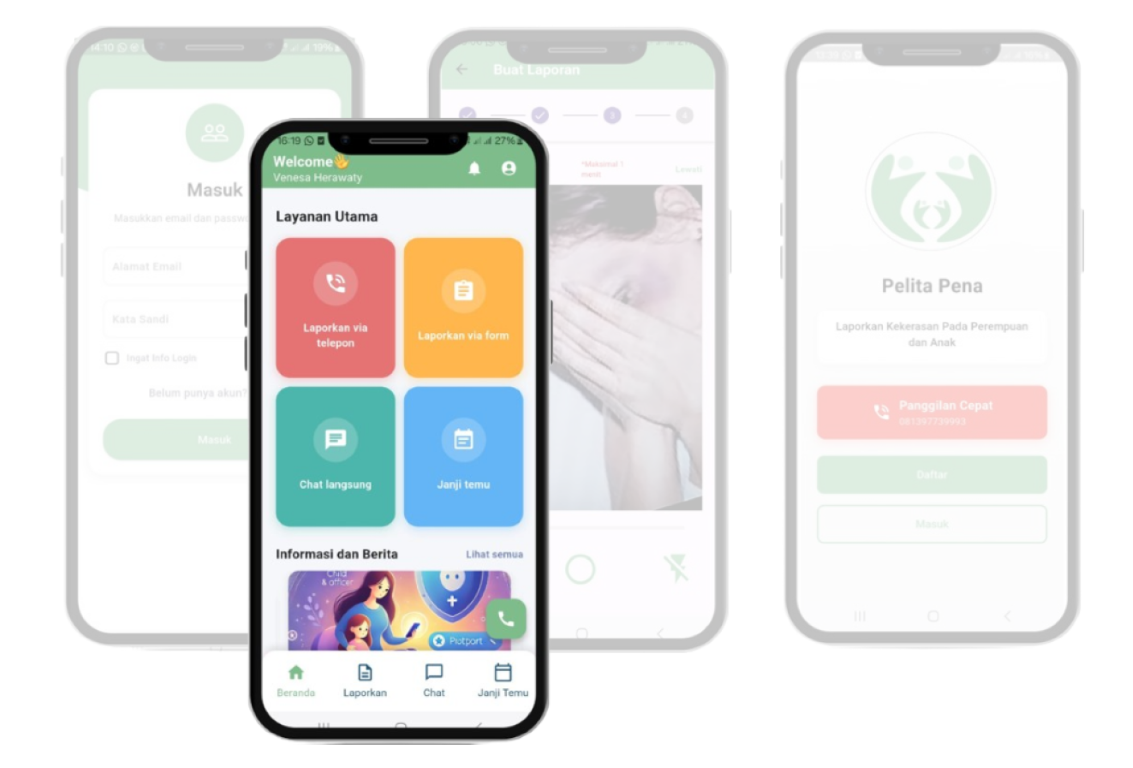
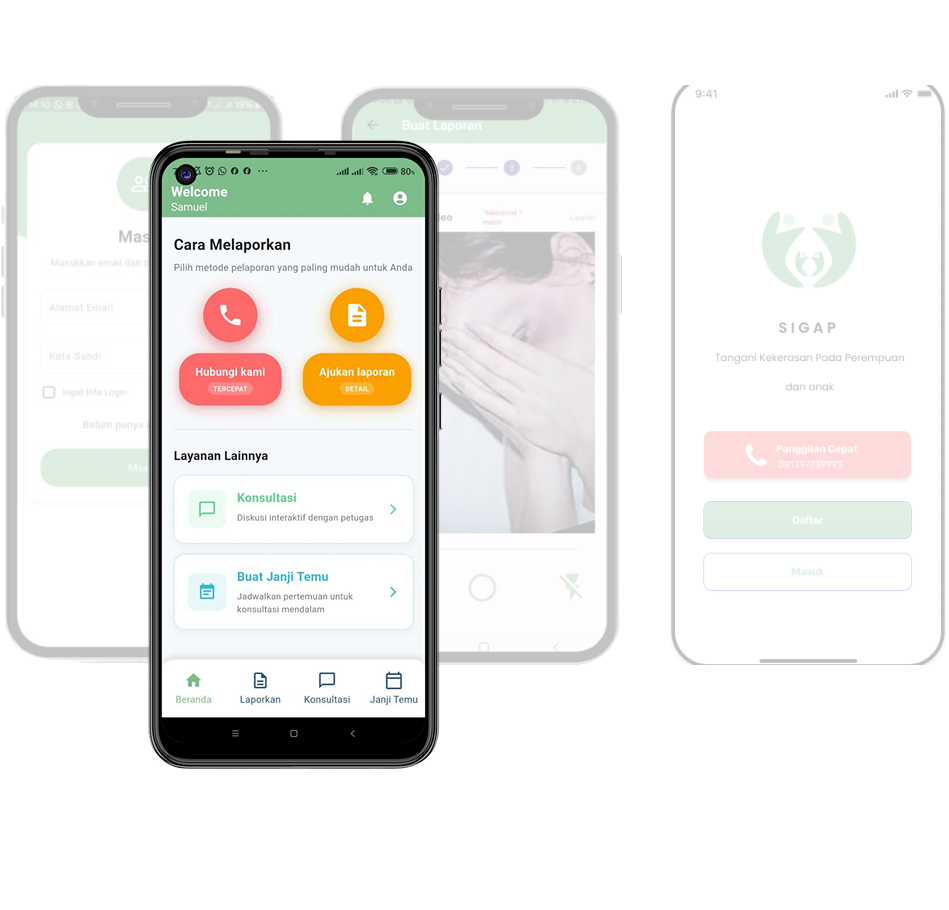
ganti nama pelitapena ke SIGAP

diff --git a/resources/views/public/pages/welcome.blade.php b/resources/views/public/pages/welcome.blade.php
@@ -7,11 +7,11 @@
         <div class="row align-items-center">
             <div class="col-lg-6">
             <h1 class="mb-4" style="font-size: 3rem; color: #2d3e69; font-weight: bold; font-family: 'Poppins', sans-serif;">
-   Hadapi Kekerasan dengan Pelita Pena
+   Hadapi Kekerasan dengan SIGAP
         </h1>
 
                 <p class="mb-4" style="color: #666; font-size: 1.1rem;">
-                Hadapi Kekerasan dengan Pelita Pena, Solusi Cerdas untuk Mengatasi Ancaman dan Menciptakan Keamanan Bersama.      
+                Hadapi Kekerasan dengan SIGAP, Solusi Cerdas untuk Mengatasi Ancaman dan Menciptakan Keamanan Bersama.      
             </p>
                 <div class="hero-buttons">
                     {{-- <button class="btn" style="background-color: #7FBC8C; color: white; padding: 8px 30px; border-radius: 5px; border: none; margin-right: 15px;">
@@ -24,7 +24,7 @@
                 </div>
             </div>
             <div class="col-lg-6">
-                <img src="assets/img/hero/app.png" alt="Pelita Pena Screenshot" class="img-fluid" style="max-width: 80%; margin-left: auto; display: block;">
+                <img src="assets/img/hero/app.png" alt="SIGAP Screenshot" class="img-fluid" style="max-width: 100%; margin-left: auto; display: block;width: 550px;">
             </div>
         </div>
     </div>
@@ -38,16 +38,16 @@
             <div class="col-lg-6 mb-5 mb-lg-0">
                 <!-- Label kecil di atas -->
                 <p style="color: #79B2E1; font-weight: 600; margin-bottom: 0;">
-                    Pelita Pena
+                    SIGAP
                 </p>
                 <!-- Judul besar -->
                 <h2 style="color: #121127; font-weight: bold; margin: 10px 0 20px; font-size: 2rem;font-family: 'Poppins'">
-                    Tentang Aplikasi Pelita Pena
+                    Tentang Aplikasi SIGAP
                 </h2>
                 <!-- Deskripsi singkat -->
-                <p style="color: #666; margin-bottom: 20px;">Pelita Pena adalah aplikasi yang memudahkan masyarakat melaporkan kekerasan terhadap anak dan perempuan secara cepat, aman, dan rahasia.
+                <p style="color: #666; margin-bottom: 20px;">SIGAP adalah aplikasi yang memudahkan masyarakat melaporkan kekerasan terhadap anak dan perempuan secara cepat, aman, dan rahasia.
                     <br>
-Selain pelaporan, aplikasi ini menyediakan informasi edukatif, layanan chat,pelacakan laporan, dan janji temu. Dengan tampilan yang sederhana, Pelita Pena hadir sebagai solusi praktis untuk menciptakan lingkungan yang lebih aman dan peduli.</p>
+Selain pelaporan, aplikasi ini menyediakan informasi edukatif, layanan chat,pelacakan laporan, dan janji temu. Dengan tampilan yang sederhana, SIGAP hadir sebagai solusi praktis untuk menciptakan lingkungan yang lebih aman dan peduli.</p>
                 <!-- Tombol Download -->
                 <!-- <button class="btn"
                         >
@@ -115,7 +115,7 @@ Selain pelaporan, aplikasi ini menyediakan informasi edukatif, layanan chat,pela
             <!-- Kolom Kanan: Judul + Langkah-langkah -->
             <div class="col-lg-7">
                 <h2 style="color: #2d3e69; font-weight: bold; font-size: 2rem; margin-bottom: 30px; font-family: 'Poppins'; max-width:500px;">
-                    Tutorial Penggunaan Aplikasi Pelita Pena
+                    Tutorial Penggunaan Aplikasi SIGAP
                 </h2>
 
                 <!-- Daftar Langkah -->

diff --git a/app/Http/Controllers/public/DashboardPublicController.php b/app/Http/Controllers/public/DashboardPublicController.php
@@ -15,7 +15,7 @@ class DashboardPublicController extends Controller
     {
 
         return view('public.pages.welcome', [
-            'title' => 'Selamat Datang di Apliaksi Pelita Pena'
+            'title' => 'Selamat Datang di Apliaksi SIGAP'
         ]);
     }
 
@@ -54,7 +54,7 @@ public function index()
     public function feature()
     {
         return view('public.pages.feature', [
-            'title' => 'Fitur Aplikasi Pelita Pena'
+            'title' => 'Fitur Aplikasi SIGAP'
         ]);
     }
 
@@ -92,7 +92,7 @@ public function index()
         $recentPosts = $contents->sortByDesc('created_at')->take(5);
 
         return view('public.pages.content', [
-            'title' => 'Blog Pelita Pena',
+            'title' => 'Blog SIGAP',
             'contents' => $paginatedContents,
             'recent_posts' => $recentPosts,
             'violence_categories' => $violenceCategories
@@ -126,7 +126,7 @@ public function index()
         $recentPosts = $contents->sortByDesc('created_at')->take(5);
 
         return view('public.pages.content', [
-            'title' => 'Blog Pelita Pena',
+            'title' => 'Blog SIGAP',
             'contents' => $paginatedContents,
             'recent_posts' => $recentPosts,
             'noResults' => $contents->isEmpty() // Add a flag for no results
@@ -171,7 +171,7 @@ public function index()
         $recentPosts = $contents->sortByDesc('created_at')->take(5);
 
         return view('public.pages.content', [
-            'title' => 'Blog Pelita Pena',
+            'title' => 'Blog SIGAP',
             'contents' => $paginatedContents,
             'recent_posts' => $recentPosts,
             'violence_categories' => $violenceCategories,

diff --git a/resources/views/public/layouts/header.blade.php b/resources/views/public/layouts/header.blade.php
@@ -7,8 +7,8 @@
                     <div class="logo">
                         <a href="{{ route('welcome') }}">
                             <div style="display: flex; align-items: center;">
-                                <img src="assets/img/logo/new_logo2.png" alt="Pelita Pena" width="60">
-                                <span class="logo-text">Pelita Pena</span>
+                                <img src="assets/img/logo/new_logo2.png" alt="SIGAP" width="60">
+                                <span class="logo-text">SIGAP</span>
                             </div>
                         </a>
                     </div>
@@ -84,7 +84,7 @@
     <div class="modal-dialog" role="document">
         <div class="modal-content">
             <div class="modal-header">
-                <h5 class="modal-title" id="downloadModalLabel">Pelita Pena</h5>
+                <h5 class="modal-title" id="downloadModalLabel">SIGAP</h5>
                 <button type="button" class="close" data-dismiss="modal" aria-label="Close">
                     <span aria-hidden="true">&times;</span>
                 </button>

diff --git a/resources/views/auth/reset-password.blade.php b/resources/views/auth/reset-password.blade.php
@@ -4,7 +4,7 @@
     <meta charset="utf-8">
     <meta name="viewport" content="width=device-width, initial-scale=1.0, user-scalable=no, minimum-scale=1.0, maximum-scale=1.0">
     <base href="/public">
-    <title>Pelita Pena – Reset Password</title>
+    <title>SIGAP – Reset Password</title>
     <meta name="description" content="">
     <link rel="icon" type="image/x-icon" href="asset-admin/assets/img/favicon/favicon.ico">
     <link rel="preconnect" href="https://fonts.googleapis.com">
@@ -215,9 +215,9 @@
         <div class="login-sidebar">
             <div class="logo-container">
                 <div class="logo-icon">
-                    <img src="assets/img/logo1.png" alt="Pelita Pena Logo" width="30" height="30">
+                    <img src="assets/img/logo1.png" alt="SIGAP Logo" width="30" height="30">
                 </div>
-                <span class="logo-text">Pelita Pena</span>
+                <span class="logo-text">SIGAP</span>
             </div>
             
             <div class="admin-text">

diff --git a/resources/views/auth/forgot-password.blade.php b/resources/views/auth/forgot-password.blade.php
@@ -4,7 +4,7 @@
     <meta charset="utf-8">
     <meta name="viewport" content="width=device-width, initial-scale=1.0, user-scalable=no, minimum-scale=1.0, maximum-scale=1.0">
     <base href="/public">
-    <title>Pelita Pena – Lupa Password</title>
+    <title>SIGAP – Lupa Password</title>
     <meta name="description" content="">
     <link rel="icon" type="image/x-icon" href="asset-admin/assets/img/favicon/favicon.ico">
     <link rel="preconnect" href="https://fonts.googleapis.com">
@@ -211,9 +211,9 @@
         <div class="login-sidebar">
             <div class="logo-container">
                 <div class="logo-icon">
-                    <img src="assets/img/logo1.png" alt="Pelita Pena Logo" width="30" height="30">
+                    <img src="assets/img/logo1.png" alt="SIGAP Logo" width="30" height="30">
                 </div>
-                <span class="logo-text">Pelita Pena</span>
+                <span class="logo-text">SIGAP</span>
             </div>
             
             <div class="admin-text">

diff --git a/resources/views/auth/login.blade.php b/resources/views/auth/login.blade.php
@@ -5,7 +5,7 @@
     <meta charset="utf-8">
     <meta name="viewport" content="width=device-width, initial-scale=1.0, user-scalable=no, minimum-scale=1.0, maximum-scale=1.0">
     <base href="/public">
-    <title>Pelita Pena – Admin Login</title>
+    <title>SIGAP – Admin Login</title>
     <meta name="description" content="">
     <link rel="icon" type="image/x-icon" href="asset-admin/assets/img/favicon/favicon.ico">
     <link rel="preconnect" href="https://fonts.googleapis.com">
@@ -205,7 +205,7 @@
                 <div class="logo-icon">
                     <img src="assets/img/logo1.png" alt="Minus Icon" width="50" height="50">
                 </div>
-                <span class="logo-text">Pelita Pena</span>
+                <span class="logo-text">SIGAP</span>
             </div>
             
             <div class="admin-text">

diff --git a/resources/views/public/layouts/footer.blade.php b/resources/views/public/layouts/footer.blade.php
@@ -4,8 +4,8 @@
             <!-- Kolom Kiri: Logo & Tombol Download -->
             <div class="col-md-2 text-center text-md-start mb-4 mb-md-0">
                 <!-- Logo -->
-                <img src="assets/img/logo/new_logo2.png" alt="Pelita Pena" width="120" />
-                <span style="margin-left:-3px; font-size: 22px; font-weight: bold; color: #2d3e69;">Pelita Pena</span>
+                <img src="assets/img/logo/new_logo2.png" alt="SIGAP" width="120" />
+                <span style="margin-left:-3px; font-size: 22px; font-weight: bold; color: #2d3e69;">SIGAP</span>
                 
                 <!-- Tombol Download (di bawah logo) -->
                 <div>

diff --git a/resources/views/public/pages/content_detail.blade.php b/resources/views/public/pages/content_detail.blade.php
@@ -8,7 +8,7 @@
                 <div class="col-lg-8">
                     <div class="section-tittle text-center">
                         <h2 style="color: #2d3e69; font-weight: 700; position: relative; display: inline-block; font-size: 26px; margin-bottom: 5px;">
-                            Pelita Pena
+                            SIGAP
                             <span style="position: absolute; bottom: -8px; left: 50%; transform: translateX(-50%); width: 60px; height: 3px; background-color: #7FBC8C; border-radius: 2px;"></span>
                         </h2>
                     </div>

diff --git a/resources/views/admin/laporan/export_pdf.blade.php b/resources/views/admin/laporan/export_pdf.blade.php
@@ -21,7 +21,7 @@
 <body>
   <div class="header">
     <img src="{{ public_path('assets/img/logo/new_logo.svg') }}" alt="Logo">
-    <div class="institution">PELITA PENA</div>
+    <div class="institution">SIGAP</div>
     <div class="sub">DPMDPPA • Jl. Setia Budi No.154, Lumpo, Iv Jurai, Pesisir Selatan, Sumbar 25651</div>
   </div>
 
